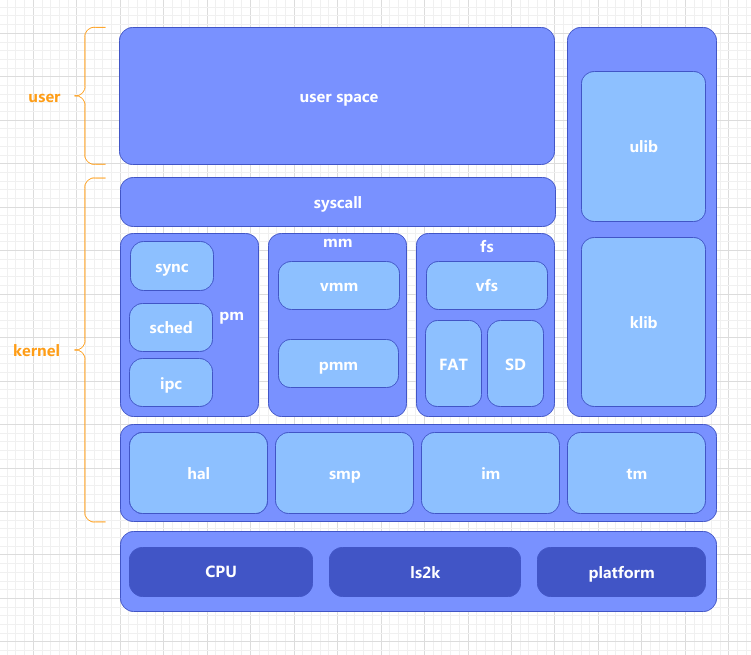
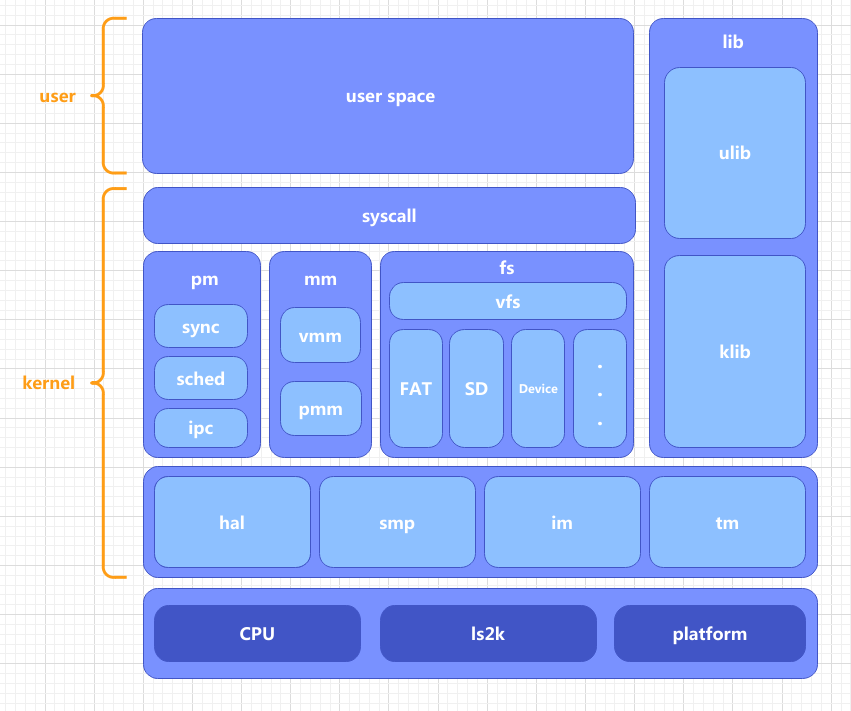
base mm; change architecture;

diff --git a/kernel/mm/pmm.cc b/kernel/mm/pmm.cc
@@ -8,6 +8,7 @@
 
 #include "mm/pmm.hh"
 #include "klib/common.hh"
+#include "mm/page.hh"
 
 PhysicalMemoryManager k_pmm;
 
@@ -17,11 +18,15 @@ void PhysicalMemoryManager::init( const char *name, uint64 ram_base, uint64 ram_
 	_ram_base = ram_base;
 	_ram_end = ram_end;
 	_free_list = 0;
+	_free_range( ( void* ) _ram_base, ( void * ) _ram_end );
 }
 
 void PhysicalMemoryManager::_free_range( void *pa_start, void *pa_end )
 {
-
+	char *p;
+	p = ( char * ) page_round_up( ( uint64 ) pa_start );
+	for ( ; p + pg_size <= ( char * ) pa_end; p += pg_size )
+		_free_page( p );
 }
 
 void PhysicalMemoryManager::_free_page( void *pa )
@@ -43,6 +48,16 @@ void PhysicalMemoryManager::_free_page( void *pa )
 }
 
 void *PhysicalMemoryManager::_alloc_page()
-{
+{// to do
 	return 0;
+}
+
+void PhysicalMemoryManger::free_page( void *pa )
+{
+	_free_page( pa );
+}
+
+void *PhysicalMemoryManager::alloc_page()
+{
+	return _alloc_page();
 }

diff --git a/kernel/mm/vmm.cc b/kernel/mm/vmm.cc
@@ -1,0 +1,23 @@
+//
+// Created by Li shuang ( pseudonym ) on 2024-03-28 
+// --------------------------------------------------------------
+// | Note: This code file just for study, not for commercial use 
+// | Contact Author: lishuang.mk@whu.edu.cn 
+// --------------------------------------------------------------
+//
+
+#include "mm/vmm.hh"
+#include "klib/common.hh"
+#include "mm/page.hh"
+
+void VirtualMemoryManager::init()
+{
+	PageTable k_pagetable;
+	uint64 addr = k_pmm.alloc();
+	if ( addr == 0 )
+		panic( "vmm init" );
+	k_pagetable.set_base( addr );
+	memset( addr, 0, pg_size );
+
+	// to do
+}

diff --git a/kernel/main.cc b/kernel/main.cc
@@ -3,6 +3,7 @@
 #include "console.hh"
 #include "hal/loongarch.hh"
 #include "hal/cpu.hh"
+#include "mm/pmm.hh"
 #include "klib/printer.hh"
 #include "klib/common.hh"
 
@@ -15,7 +16,11 @@ int main()
 	{
 		k_console.init( "console" );
 		kernellib::k_printer.init( &k_console, "printer" );
-		printf( "Hello World!" );
+		printf( "Hello World!\n" );
+		k_pmm.init( "physical memory manager",
+			loongarch::qemuls2k::memory::mem_start,
+			loongarch::qemuls2k::memory::mem_end );
+		printf( "pmm init\n" );
 		while ( 1 ); // stop here
 	}
 	else
